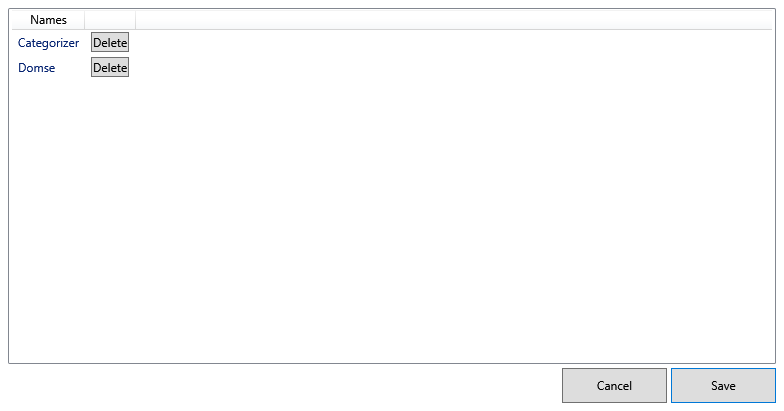
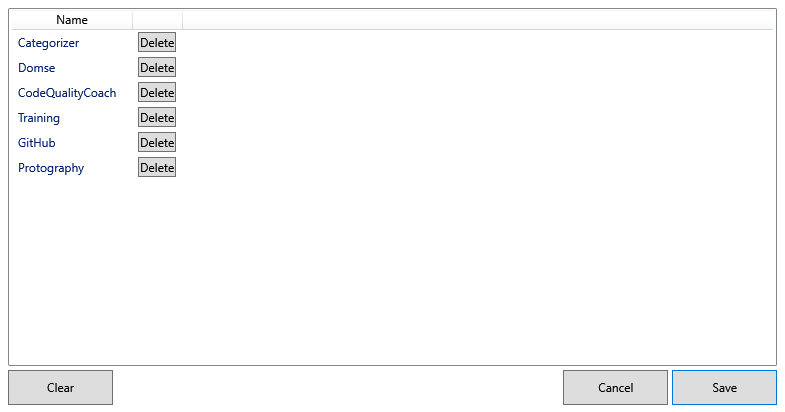
categories can be managed now. UI screenshot updated.

diff --git a/Eumel.EmailCategorizer/Eumel.EmailCategorizer.WpfUI/EditCategoriesWindow.xaml b/Eumel.EmailCategorizer/Eumel.EmailCategorizer.WpfUI/EditCategoriesWindow.xaml
@@ -3,9 +3,10 @@
         xmlns:x="http://schemas.microsoft.com/winfx/2006/xaml"
         xmlns:d="http://schemas.microsoft.com/expression/blend/2008"
         xmlns:mc="http://schemas.openxmlformats.org/markup-compatibility/2006"
-        xmlns:local="clr-namespace:Eumel.EmailCategorizer.WpfUI"
+        xmlns:wpfUi="clr-namespace:Eumel.EmailCategorizer.WpfUI"
+        d:DataContext="{d:DesignInstance Type=wpfUi:EditCategoriesWindow}" 
         mc:Ignorable="d"
-        Title="EUMEL Category Editor" Height="450" Width="800" d:DataContext="{d:DesignInstance }">
+        Title="EUMEL Category Editor" Height="450" Width="800">
     <Grid Margin="8">
         <Grid.RowDefinitions>
             <RowDefinition Height="*" />
@@ -17,17 +18,12 @@
             <ColumnDefinition Width="*" />
         </Grid.ColumnDefinitions>
 
-        <ListView Name="CategoryList" ItemsSource="{Binding Categories}" Grid.ColumnSpan="2" Margin="0 0 0 4">
+        <ListView Name="CategoryList" 
+                  ItemsSource="{Binding Path=Categories, Mode=OneWay}" 
+                  Grid.ColumnSpan="2" Margin="0 0 0 4">
             <ListView.View>
                 <GridView>
-                    <GridViewColumn>
-                        <GridViewColumnHeader>Names</GridViewColumnHeader>
-                        <GridViewColumn.CellTemplate>
-                            <DataTemplate>
-                                <TextBlock Text="{Binding .}" />
-                            </DataTemplate>
-                        </GridViewColumn.CellTemplate>
-                    </GridViewColumn>
+                    <GridViewColumn Header="Name" Width="120" DisplayMemberBinding="{Binding Name}" />
                     <GridViewColumn>
                         <GridViewColumn.CellTemplate>
                             <DataTemplate>
@@ -39,8 +35,11 @@
             </ListView.View>
         </ListView>
 
-        <StackPanel Orientation="Horizontal" HorizontalAlignment="Right" Grid.Column="0" Grid.Row="1"
-                        Grid.ColumnSpan="2" Height="35">
+        <StackPanel Orientation="Horizontal" HorizontalAlignment="Right" Grid.Column="0" Grid.Row="1" Height="35">
+            <Button Width="105" Click="ClearAllButton">Clear</Button>
+        </StackPanel>
+
+        <StackPanel Orientation="Horizontal" HorizontalAlignment="Right" Grid.Column="1" Grid.Row="1" Height="35">
             <Button Width="105" Click="CancelButton">Cancel</Button>
             <Button Width="105" Margin="4 0 0 0" Click="SaveButton" IsDefault="True">Save</Button>
         </StackPanel>

diff --git a/Eumel.EmailCategorizer/Eumel.EmailCategorizer.WpfUI/EmailSubjectWindow.xaml b/Eumel.EmailCategorizer/Eumel.EmailCategorizer.WpfUI/EmailSubjectWindow.xaml
@@ -20,10 +20,10 @@
         </Grid.ColumnDefinitions>
 
         <TextBlock Text="Category" Margin="0 0 4 4" Grid.Column="0" Grid.Row="0" />
-        <ComboBox x:Name="Category" Margin="0 0 0 4" IsEditable="True" Grid.Column="1" Grid.Row="0" Text="add or update to list" />
-        <CheckBox x:Name="AddToList" Margin="0 0 0 4" IsChecked="True" Grid.Column="1" Grid.Row="1" />
+        <ComboBox x:Name="Category" Margin="0 0 0 4" IsEditable="True" Grid.Column="1" Grid.Row="0" />
+        <CheckBox x:Name="AddToList" Margin="0 0 0 4" IsChecked="True" Grid.Column="1" Grid.Row="1">add or update to list</CheckBox>
 
-        <TextBlock Text="Subject" Margin="0 0 4 4" Grid.Column="0" Grid.Row="1" />
+        <TextBlock Text="Subject" Margin="0 0 4 4" Grid.Column="0" Grid.Row="2" />
         <TextBox x:Name="MailSubject" Grid.Column="1" Grid.Row="2" />
 
         <StackPanel Orientation="Horizontal" HorizontalAlignment="Right" Grid.Column="0" Grid.Row="4"

diff --git a/Eumel.EmailCategorizer/Eumel.EmailCategorizer.WpfUI/EditCategoriesWindow.xaml.cs b/Eumel.EmailCategorizer/Eumel.EmailCategorizer.WpfUI/EditCategoriesWindow.xaml.cs
@@ -1,8 +1,10 @@
 using System;
 using System.Collections.Generic;
+using System.Collections.ObjectModel;
 using System.Linq;
 using System.Windows;
 using System.Windows.Controls;
+using System.Windows.Input;
 using System.Windows.Media;
 
 namespace Eumel.EmailCategorizer.WpfUI
@@ -24,8 +26,9 @@ namespace Eumel.EmailCategorizer.WpfUI
                          throw new ArgumentNullException(nameof(sender), @"sender is not an EditCategoriesWindow");
             var newValue = e.NewValue as IEumelCategoryManager ?? throw new ArgumentNullException(nameof(e.NewValue));
 
-            window.CategoryList.ItemsSource = newValue.Get();
-            //newValue.Get().ToList().ForEach(x => window.CategoryList.Items.Add(x));
+            window.Categories = new ObservableCollection<CategoryModel>(
+                newValue.Get().Select(x => new CategoryModel() { Name = x }));
+            CommandManager.InvalidateRequerySuggested();
         }
 
         public IEumelCategoryManager CategoryManager
@@ -34,23 +37,45 @@ namespace Eumel.EmailCategorizer.WpfUI
             set => SetValue(CategoryManagerProperty, value);
         }
 
-        public IEnumerable<string> Categories => CategoryManager.Get();
 
-        #endregion
+        #endregion CategoryManager
+
+        #region Categories
+
+        public static readonly DependencyProperty CategoriesProperty = DependencyProperty.Register(
+            "Categories", typeof(ObservableCollection<CategoryModel>), typeof(EditCategoriesWindow), new PropertyMetadata(default(ObservableCollection<CategoryModel>)));
+
+        private readonly IList<CategoryModel> _deletedCategories = new List<CategoryModel>();
+
+        public ObservableCollection<CategoryModel> Categories
+        {
+            get => (ObservableCollection<CategoryModel>)GetValue(CategoriesProperty);
+            set => SetValue(CategoriesProperty, value);
+        }
+
+        #endregion Categories
 
         public EditCategoriesWindow()
         {
             InitializeComponent();
+            DataContext = this;
         }
 
         private void CancelButton(object sender, RoutedEventArgs e)
         {
-            throw new NotImplementedException();
+            DialogResult = false;
+            Close();
         }
 
         private void SaveButton(object sender, RoutedEventArgs e)
         {
-            throw new NotImplementedException();
+            foreach (var item in Categories)
+                CategoryManager.Add(item.Name);
+            foreach (var item in _deletedCategories)
+                CategoryManager.Delete(item.Name);
+
+            DialogResult = true;
+            Close();
         }
 
         private void DeleteCategory(object sender, RoutedEventArgs e)
@@ -66,9 +91,13 @@ namespace Eumel.EmailCategorizer.WpfUI
                 return;
 
             int index = CategoryList.ItemContainerGenerator.IndexFromContainer(dep);
+            _deletedCategories.Add(Categories.ElementAt(index));
+            Categories.RemoveAt(index);
+        }
 
-            // TODO two way binding
-            //People.RemoveAt(index);
+        private void ClearAllButton(object sender, RoutedEventArgs e)
+        {
+            Categories.Clear();
         }
     }
 }

diff --git a/Eumel.EmailCategorizer/Eumel.EmailCategorizer.WpfUI.Tests/EmailSubjectWindow_Should.cs b/Eumel.EmailCategorizer/Eumel.EmailCategorizer.WpfUI.Tests/EmailSubjectWindow_Should.cs
@@ -46,7 +46,7 @@ namespace Eumel.EmailCategorizer.WpfUI.Tests
         public void Open_Window()
         {
             var categoryManager = Substitute.For<IEumelCategoryManager>();
-            categoryManager.Get().ReturnsForAnyArgs(new[] { "Categorizer", "Domse" });
+            categoryManager.Get().ReturnsForAnyArgs(new[] { "Categorizer", "Domse", "Foo1", "Foo2", "Bar1","Bar2" });
 
             var window = new EmailSubjectWindow
             {
@@ -64,21 +64,28 @@ namespace Eumel.EmailCategorizer.WpfUI.Tests
         [Test]
         [Explicit("this opens a UI")]
         [Apartment(ApartmentState.STA)]
-        public void Open_EditCategoriesWindow()
+        public void Open_EditCategoriesWindow_ClearAtLeastOne_Except_EumelCategories()
         {
+            var items = new[] {"Categorizer", "Domse", "CodeQualityCoach", "Training", "GitHub", "Protography"};
             var categoryManager = Substitute.For<IEumelCategoryManager>();
-            categoryManager.Get().ReturnsForAnyArgs(new[] { "Categorizer", "Domse" });
+            categoryManager.Get().ReturnsForAnyArgs(items);
 
             var window = new EditCategoriesWindow()
             {
                 CategoryManager = categoryManager
             };
+            
+            // lets create a screenshot
             window.Show();
             Directory.CreateDirectory(Assets);
             CreateBitmapFromVisual(window, Assets + "eumel_categoryeditor.png");
             window.Hide();
 
             window.ShowDialog();
+
+            categoryManager.Received().Add("Categorizer");
+            categoryManager.Received().Add("Domse");
+            categoryManager.Received().Delete("GitHub");
         }
     }
 }

diff --git a/Eumel.EmailCategorizer/Eumel.EmailCategorizer.WpfUI/CategoryModel.cs b/Eumel.EmailCategorizer/Eumel.EmailCategorizer.WpfUI/CategoryModel.cs
@@ -1,0 +1,8 @@
+namespace Eumel.EmailCategorizer.WpfUI
+{
+    public class CategoryModel
+    {
+        public string Name { get; set; }
+        public int Counter { get; set; }
+    }
+}
